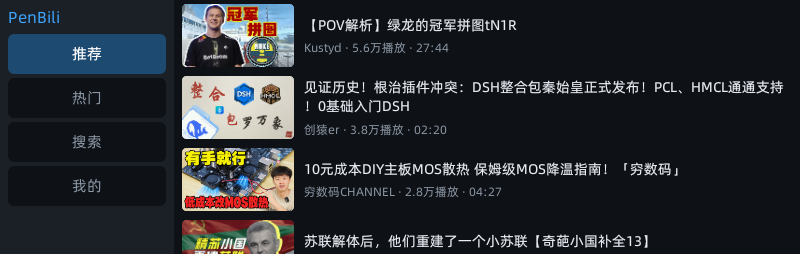
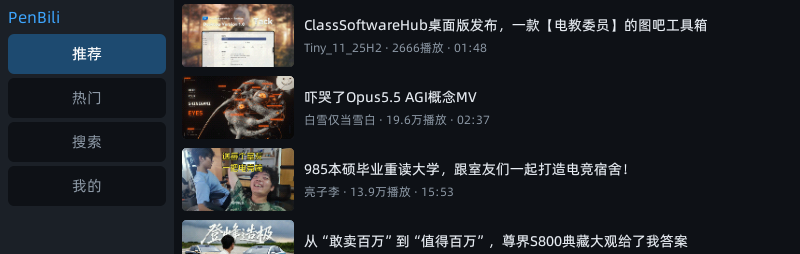
docs: 更新截图至 v2.7.0（无弹幕 UI），致谢改为 WorkBuddy + GLM-5.3-Flash
- 播放中截图取自真机 framebuffer（captureFB 旋转裁剪，含真实视频画面）
- 主页截图为 v2.7.0 当前推荐流
- 移除有道 X5 社区既有项目致谢（用户自有未发布项目）
- 新增腾讯 WorkBuddy（开发环境/Agent 工具链）与 GLM-5.3-Flash（智谱，协作模型）致谢

Changed region(s): [[0.2188, 0.0, 1.0, 0.5512], [0.2188, 0.5787, 0.875, 1.0]]

diff --git a/README.md b/README.md
@@ -104,9 +104,9 @@ adb 定位顺序：`$env:BILI_ADB` → PATH → 本机 `../env/adb` 布局）。
 
 - [SocialSisterYi/bilibili-API-collect](https://github.com/SocialSisterYi/bilibili-API-collect)：
   B 站接口文档。
-- 有道 X5 社区既有项目（deepseek-x5 / video_player_x5 等）的 profile 与工具链经验。  
-- DeepSeek Harness：本项目的开发环境与 Agent 工具链。
-- DeepSeek v4.1flash、小米 MiMo-v2.6-flash：本项目的代码协作与排障模型。
+- 腾讯 **WorkBuddy**：本项目的开发环境与 Agent 工具链（真机调试、部署与证据采集）。
+- **GLM-5.3-Flash**（智谱）：本项目的代码协作与排障模型。
+- DeepSeek Harness / DeepSeek v4.1flash、小米 MiMo-v2.6-flash：早期迭代的开发环境与协作模型。
 
 ## 免责声明
 
